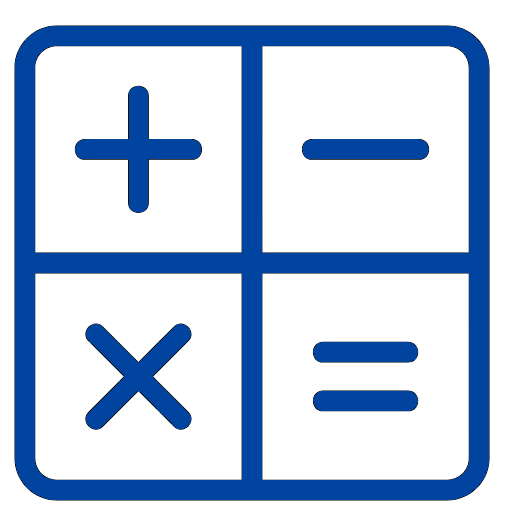
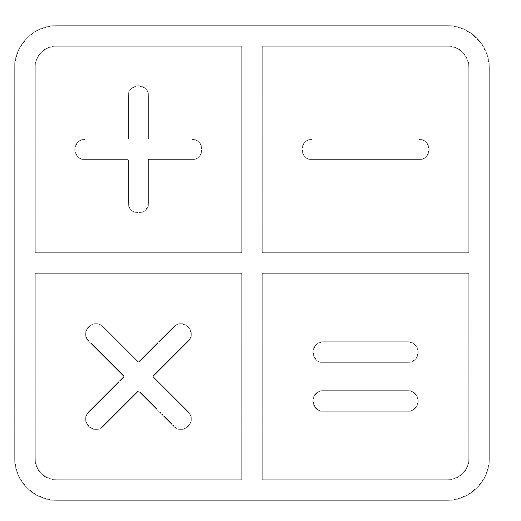
aplicando o style

diff --git a/src/main.py b/src/main.py
@@ -1,18 +1,21 @@
 import sys
+import variables as var
 from PySide6.QtWidgets import QApplication
 from PySide6.QtGui import QIcon
 from main_window import MainWindow
 from display import Display
 from info import Info
-from variables import WINDOWS_ICO_PATH
+import qdarktheme
 
 if __name__ == '__main__':
     # Cria a aplicação
     app = QApplication(sys.argv)
+    dark_stylesheet = qdarktheme.load_stylesheet('dark')  # light ou dark
+    app.setStyleSheet(str(dark_stylesheet))
     window = MainWindow()
 
     # Defini o ícone
-    icon = QIcon(str(WINDOWS_ICO_PATH))
+    icon = QIcon(str(var.WINDOWS_ICO_PATH))
     window.setWindowIcon(icon)
     app.setWindowIcon(icon)
 

diff --git a/src/styles.py b/src/styles.py
@@ -1,0 +1,13 @@
+# QSS - Estilos do QT for Python
+# https://doc.qt.io/qtforpython/tutorials/basictutorial/widgetstyling.html
+# Dark Theme
+# https://pyqtdarktheme.readthedocs.io/en/latest/how_to_use.html
+
+
+from PySide6.QtGui import QIcon
+import qdarktheme
+
+
+def setupTheme(typeTheme: str = 'dark'):
+    qdarktheme.load_stylesheet(typeTheme)  # ou dark
+    # dark_stylesheet = qdarktheme.load_stylesheet('light')  # ou dark
